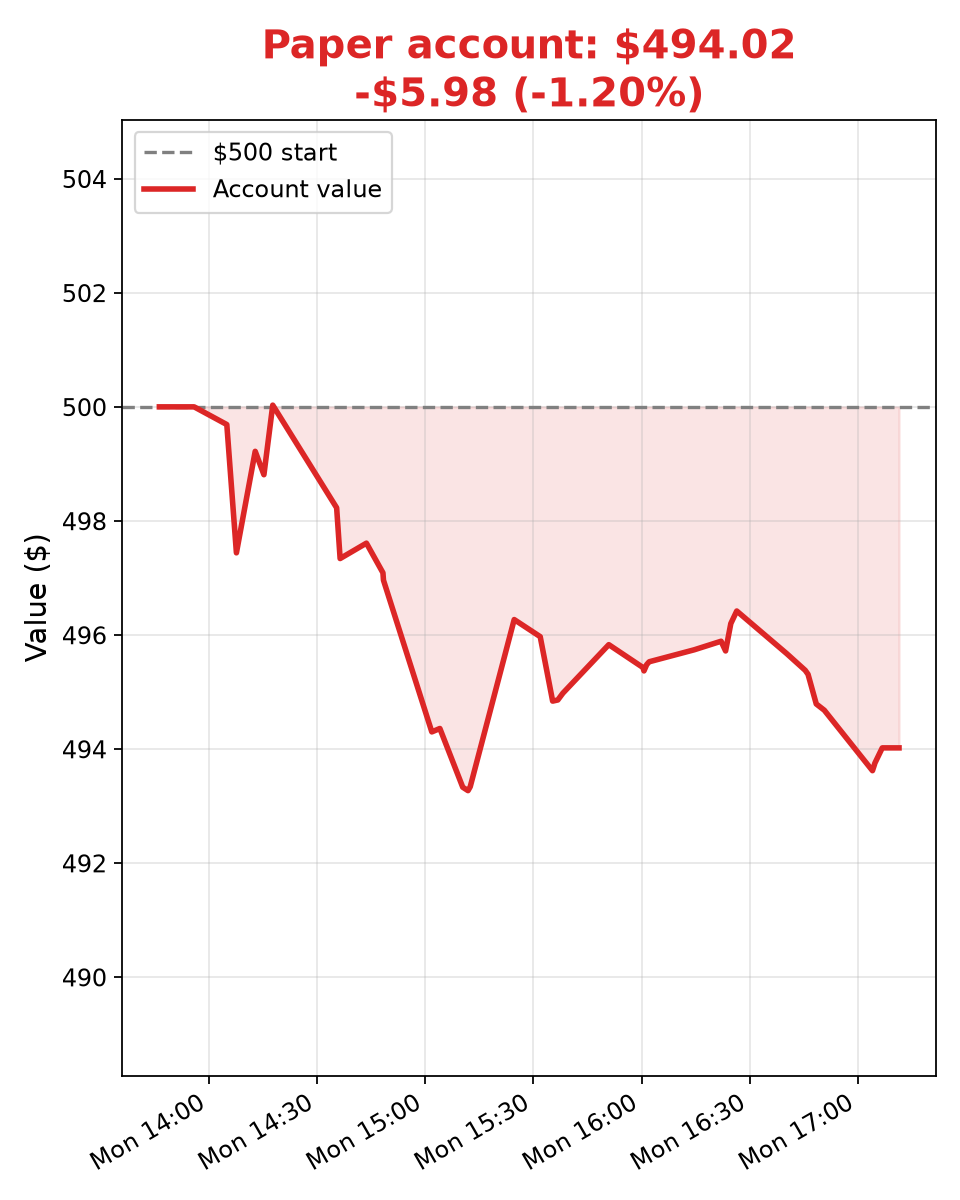
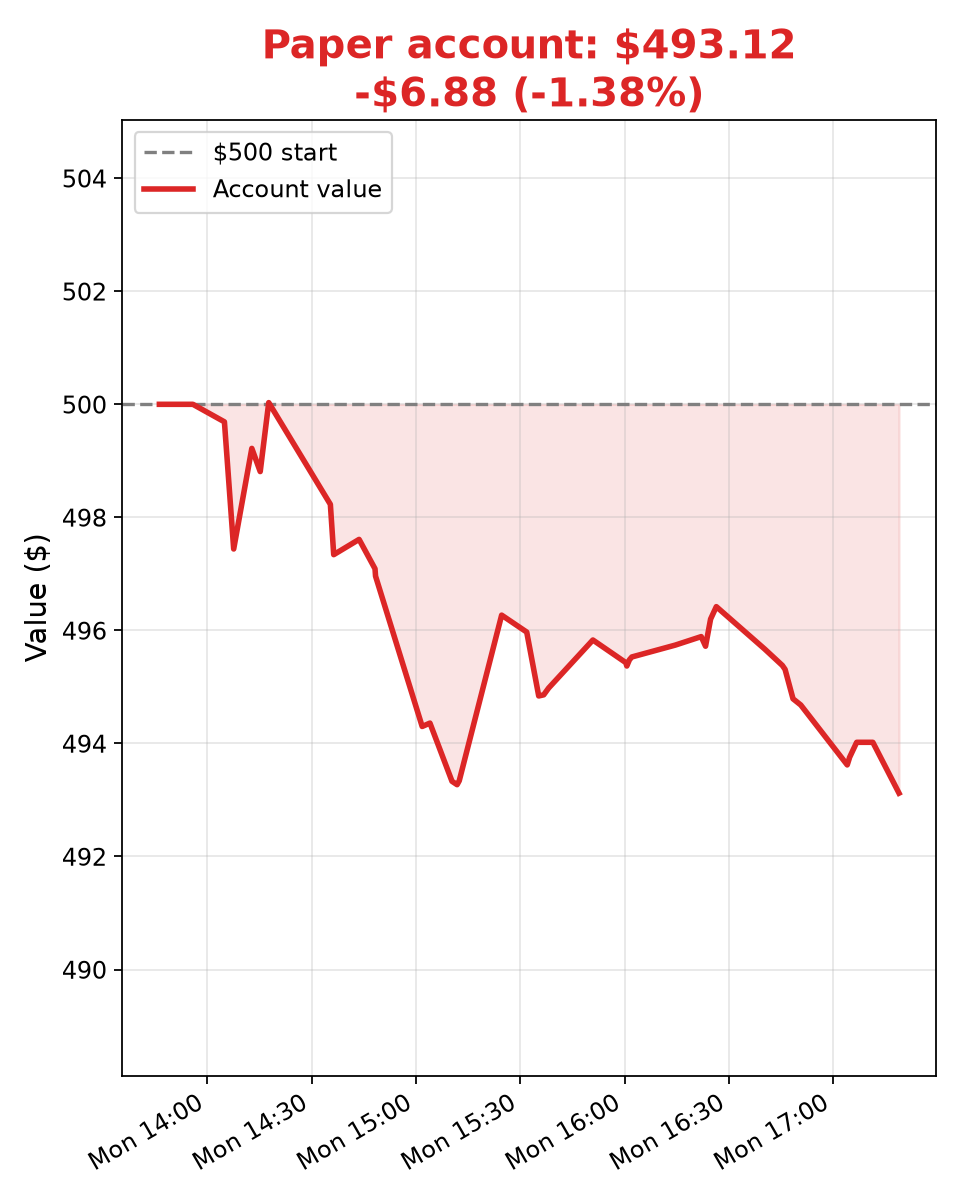
Update 2026-10-12T17:19:02Z

diff --git a/ledger.md b/ledger.md
@@ -69,3 +69,5 @@
 
 - 2026-10-12T17:06:48Z — total $494.02, cash $98.62 (Bot2 mark, no trade; FRO 58.61, DHT 25.82, ASTS 53.515 marked; no stops/targets hit)
 - 2026-10-12T17:11:27Z — total $494.02, cash $98.62 (Jr mark, no trade; FRO 58.68, DHT 25.835, ASTS 53.37 marked; no stops/targets hit)
+
+- 2026-10-12T17:18:59Z — total $493.12, cash $98.62 (Bot1 mark, no trade; FRO 58.50, DHT 25.76, ASTS 53.36 marked; no stops/targets hit)
